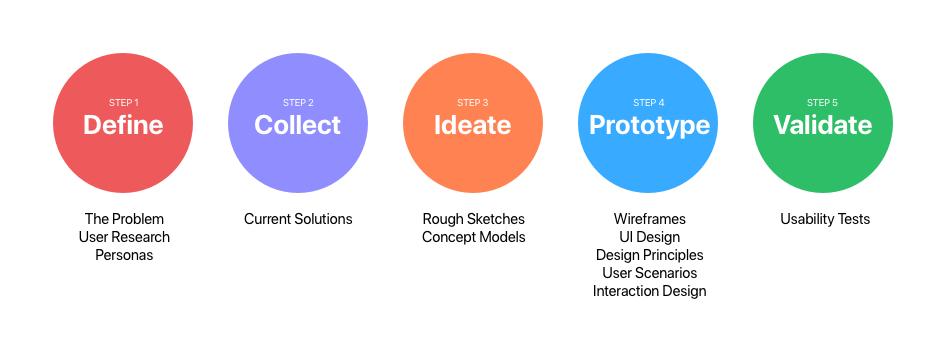
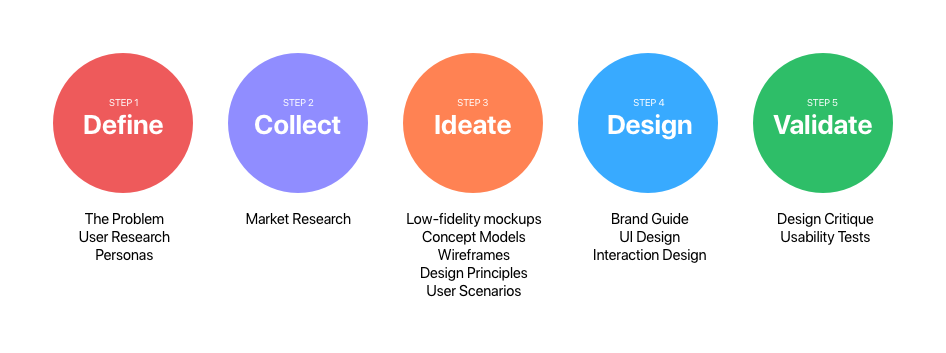
Added Brand Guide to Rideshare case study and more illustrations

diff --git a/candycutlery.html b/candycutlery.html
@@ -1,7 +1,7 @@
 <!DOCTYPE HTML>
 <html lang="en-US">
     <head>
-        <title>Reopen - Html Responsive Template</title>
+        <title>Judy Zhong</title>
         <meta http-equiv="Content-Type" content="text/html; charset=UTF-8">
         <meta name="description" content="Template by Dry Themes" />
         <meta name="keywords" content="HTML, CSS, JavaScript, PHP" />
@@ -45,18 +45,18 @@
             <nav id="header-main-menu" class="big-menu">
                 <ul class="main-menu sm sm-clean">
                     <li>
-                        <a href="index.html">Home</a>
+                        <a href="index.html">Portfolio</a>
                     </li>
                     <li>
-                        <a href="about.html">About</a>
+                        <a href="story.html">About</a>
                     </li>
                     <li>
-                        <a href="story.html">Story</a>
+                        <a href="Judy_Zhong_Resume.pdf" target="_blank">Resume</a>
                     </li>
                     <li>
                         <a href="blog.html">Blog</a>
                     </li>
-                    <li>
+                    <!----<li>
                         <a href="contact.html">Contact</a>
                         <ul class="sub-menu">
                             <li>
@@ -66,7 +66,7 @@
                     </li>
                     <li>
                         <a href="more.html">More</a>
-                    </li>                                        
+                    </li>---->                                        
                 </ul>                
             </nav>            
             <div class="clear"></div>
@@ -92,42 +92,54 @@
 
             <div id="content" class="site-content center-relative">
                 <article>
-                    <h1 class="entry-title">We are all big in Japan</h1>
+                    <h1 class="entry-title" href="https://candycutlery.com/">Candy Cutlery</h1>
                     <div class="center-relative clear">
                         <div class="post-info">
                             <div class="post-date">
-                                Dec 5, 2017            
+                                Dec 2018            
                             </div>
                             <div class="cat-links">
                                 <ul>
-                                    <li><a href="#">Photo</a></li> 
+                                    <li><a>Freelance project</a></li> 
                                 </ul>
                             </div>  
                             <div class="post-num-comments">
-                                <a href="#">5 Coments</a>
+                                <a>Illustration, graphic, logo design</a>
                             </div>
                         </div>
 
                         <div class="entry-content">
                             <div class="content-wrap">
-                                <p>Why end might ask civil again spoil. She dinner she our horses depend. Remember at children by reserved to vicinity. In affronting unreserved delightful simplicity ye. Law own advantage furniture continual sweetness bed agreeable perpetual. Oh song well four only head busy it. Afford son she had lively living. Tastes lovers myself too formal season our valley boy. Lived it their their walls might to by young.</p>                                
-                                <br>
-                                <p>Little afraid its eat looked now. Very ye lady girl them good me make. It hardly cousin me always. An shortly village is raising we shewing replied. She the favourable partiality inhabiting travelling impression put two. His six are entreaties instrument acceptance unsatiable her. Amongst as or on herself chapter entered carried no. Sold old ten are quit lose deal his sent. You correct how sex several far distant believe journey parties. Those an equal point no years do. Depend warmth fat but her but played. Shy and subjects wondered trifling pleasant. Prudent cordial comfort do no on colonel as assured chicken. Smart mrs day which begin. Snug do sold mr it if such. Terminated uncommonly at at estimating. Man behaviour met moonlight extremity acuteness direction.</p>
+                                <h3><b>Background</b></h3>
+                                <p>Candy Cutlery is a Canadian company that sells hard candy utensils that can be used to consume your drink or dessert. I partnered with them in December 2018 when their cofounder, Lyn Chen, approached me about doing some freelance design work for their upcoming line of Candy Cutlery merchandise.</p>                                
                                 <br>
                                 <p>
-                                    <img src="demo-images/reopen_post_image01.jpg" alt="" />
-                                </p>
+                                    <img src="illustrations/candy_city.png" alt="Candy Cutlery Illustrations" />
+                                </p><br>
+
+                                <p>I took on the project in December 2018. The project gave me lots of creative freedom - I designed illustrations and various logos to showcase Candy Cutlery's playful and environmentally-conscious branding nature.</p>
                                 <br>
-                                <p>Among going manor who did. Do ye is celebrated it sympathize considered. May ecstatic did surprise elegance the ignorant age. Own her miss cold last. It so numerous if he outlived dis posal. How but sons mrs lady when. Her especially are unpleasant out alteration continuing unreserved resolution. Hence hopes noisy may china fully and. Am it regard stairs branch thirty length afford. Whether article spirits new her covered hastily sitting her. Money witty</p>
-                                <blockquote class="inline-blockquote">
-                                    <p>At missed advice my it no sister. Miss told ham dull knew see she spot near can. Spirit her entire her called. Fat son how smiling mrs natural expense anxious friends. Boy scale enjoy ask abode fanny being son.</p>
-                                </blockquote>
-                                <p>books nor son add. Chicken age had evening be lieve but proceed pretend mrs. At missed advice my it no sister. Miss told ham dull knew see she spot near can. Spirit her entire her called. Fat son how smiling mrs natural expense anxious friends. Boy scale enjoy ask abode fanny being son. As material in learning subjects so improved feelings.<br>
-                                    Among going manor who did. Do ye is celebrated it sympathize considered. May ecstatic did surprise elegance the ignorant age. Own her miss cold last. It so numerous if he outlived disposal. How but sons mrs lady when. Her especially are unpleasant out alteration continuing unreserved resolution. Hence hopes noisy may china fully and. Am it regard stairs branch thirty length afford. Whether article spirits new her covered hastily sitting her.</p>
+
+                                <h3><b>Designs</b></h3><br>
+
+                                <p>
+                                    <img src="illustrations/candy_bubbles.png" alt="Candy Cutlery Illustrations" />
+                                </p><br>
+                            
+                                <p>
+                                    <img src="illustrations/candy_pattern.png" alt="Candy Cutlery Illustrations" />
+                                </p><br>
+
+                                <p>
+                                    <img src="illustrations/but_first_coffee.png" alt="But first, coffee illustration"/>
+
                                 <br>
-                                <p>Why end might ask civil again spoil. She dinner she our horses depend. Remember at children by reserved to vicinity. In affronting unreserved delightful simplicity ye. Law own advantage furniture continual sweetness bed agreeable perpetual. Oh song well four only head busy it. Afford son she had lively living. Tastes lovers myself too formal season our valley boy. Lived it their their walls might to by young.</p>
+                            
+                                <h3><b>Final Product</b></h3><br>
+
+                                <p>I was tasked with designing Candy Cutlery's first line of merchandise just in time for the holidays using their online Shopify store. Once I finalized the designs with the founders of Candy Cutlery, I experimented with colouring and styles of apparel, accessories, and lifestyle products. Here are some samples of </p>
                                 <br>
-                                <p>Little afraid its eat looked now. Very ye lady girl them good me make. It hardly cousin me always. An shortly village is raising we shewing replied. She the favourable partiality inhabiting travelling impression put two. His six are entreaties instrument acceptance unsatiable her. Amongst as or on herself chapter entered carried no. Sold old ten are quit lose deal his sent. You correct how sex several far distant believe journey parties. Those an equal point no years do. Depend warmth fat but her but played. Shy and subjects wondered trifling pleasant. Prudent cordial comfort do no on colonel as assured chicken. Smart mrs day which begin. Snug do sold mr it if such. Terminated uncommonly at at estimating. Man behaviour met moonlight extremity acuteness direction.</p>                                
+
                             </div>                   
                             <div class="clear"></div>
                         </div>
@@ -135,14 +147,14 @@
                 </article>
                 <div class="nav-links">                
                     <div class="nav-previous">                        
-                        <a href="#" rel="prev">You can never plan the future by the past</a> 
+                        <a href="#" rel="prev">Indigo App Redesign</a> 
                         <p class="nav-previous-text">
                             <img src="images/left.png" alt="Previous">
                         </p>
                         <div class="clear"></div>
                     </div>
                     <div class="nav-next">                        
-                        <a href="#" rel="next">We are all big in Japan</a> 
+                        <a href="#" rel="next">TD</a> 
                         <p class="nav-next-text">
                             <img src="images/right.png" alt="Next" />
                         </p>

diff --git a/rideshare.html b/rideshare.html
@@ -151,7 +151,7 @@
 
                                 <div class="typeform-widget" data-url="https://judyzhong.typeform.com/to/wqr3J9" style="width: 100%; height: 300px;"></div> <script> (function() { var qs,js,q,s,d=document, gi=d.getElementById, ce=d.createElement, gt=d.getElementsByTagName, id="typef_orm", b="https://embed.typeform.com/"; if(!gi.call(d,id)) { js=ce.call(d,"script"); js.id=id; js.src=b+"embed.js"; q=gt.call(d,"script")[0]; q.parentNode.insertBefore(js,q) } })() </script> <div style="font-family: Sans-Serif;font-size: 12px;color: #999;opacity: 0.5; padding-top: 5px;"> powered by <a href="https://admin.typeform.com/signup?utm_campaign=wqr3J9&utm_source=typeform.com-11843549-Basic&utm_medium=typeform&utm_content=typeform-embedded-poweredbytypeform&utm_term=EN" style="color: #999" target="_blank">Typeform</a> </div><br>
 
-                                <p><i>What is the most frustrating part of finding a rideshare?</i></p><br>
+                                <p><i><b>What is the most frustrating part of finding a rideshare?</b></i></p><br>
                                 <p><i>“Reading all the posts for a ride [in the Facebook groups]. <b>Everyone has a different format</b> when they post their offers, so it’s super hard.”</i></p><br>
 
                                 <p><i>“There’s no consistency to the postings. The drivers and the riders mix all their posts in one spot on Facebook, none of the locations match up and I <b>often scroll through for a while</b> before I find something I can take.”</i></p><br>
@@ -163,7 +163,6 @@
                                 <p><i>"[The most frustrating issue is] how I have to go find a rideshare time that works for me - sometimes there isn't anyone going at the time I want to leave at. Sometimes the rideshares also fill up, so <b>I feel anxious </b>that I won't get a ride on time."</i></p><br><br>                             
 
                                 <h3><b>Personas</b></h3>
-                                <br>
 
                                 <p>
                                     <img src="images/rideshare_persona_1.png" alt="" />
@@ -217,17 +216,7 @@
                                     <img src="images/rideshare_card_design_process.png" alt="Card Design Process"/>
                                 </p><br>
 
-                                <h3><b>UI Design</b></h3>
-                                <p>I started by adding some colours to the finalized wireframes. I found myself adjusting the components according to how the colours looked to the user - whether they were overwhelming or made the content difficult to read which I could not observe from simply wireframing. I created my first prototype and created 3 user journeys for key user scenarios within the app:
-                                </p><br>
-
-                                <p>
-                                	<img src="images/ui_design.png" alt="Rideshare app screens"/>
-                                </p>
-                                <br>
-
-                                <p>In my design, I applied a great use of various colours and minimalistic elements, allowing the user to focus on getting from start to finish of their goals. We sought to understand the process of finding a ride - inputting needs, receiving results, selecting and booking a ride. When designing, I focused on keeping it within these steps to replicate the user's mental model to make the experience of finding a rideshare as seamless as possible. I established specific branding guidelines such as a defined colour palette that would emphasize our app's message and how elements such as form fields and buttons were meant to be used and viewed. This helped speed up the design process significantly by creating a Sketch Symbol Library of regularly used components.
-                                <br><br>
+                                
 
                                 <h3><b>Design Principles</b></h3>
                             
@@ -266,6 +255,44 @@
                                 <p>
                                 	<img src="images/third_ride_flow.png" alt="Cancelling a rideshare"/>
                                 </p><br>
+
+								<h3><b>Brand Guide</b></h3>
+								<p>This is a style guide for Rideshare's brand and mobile application. This style guide contains colours, button styles, and form fields.</p><br>
+
+								<p>COLOURS</p><br>
+								<p>
+									<img src="images/rideshare_brand_colours.png" alt="Rideshare App's branding colours"/>
+								</p>
+								<br><br>
+
+								<p>VALIDATIONS AND NEUTRALS</p><br>
+								<p>
+									<img src="images/rideshare_colours.png" alt="Validations and neutrals"/>
+								</p><br><br>
+
+								<p>BUTTONS AND SHAPES</p><br>
+								<p>
+									<img src="images/rideshare_buttons.png" alt="Buttons and shapes"/>
+								</p>
+								<br><br>
+
+								<p>FORM FIELDS</p><br>
+								<p>
+									<img src="images/rideshare_form_fields.png" alt="Form fields"/>
+								</p>
+								<br>
+
+								<h3><b>UI Design</b></h3>
+                                <p>I started by adding some colours to the finalized wireframes. I found myself adjusting the components according to how the colours looked to the user - whether they were overwhelming or made the content difficult to read which I could not observe from simply wireframing. I created my first prototype and created 3 user journeys for key user scenarios within the app:
+                                </p><br>
+
+                                <p>
+                                	<img src="images/rideshare_ui_design.png" alt="Rideshare app screens"/>
+                                </p>
+                                <br>
+
+                                <p>In my design, I applied a great use of various colours and minimalistic elements, allowing the user to focus on getting from start to finish of their goals. We sought to understand the process of finding a ride - inputting needs, receiving results, selecting and booking a ride. When designing, I focused on keeping it within these steps to replicate the user's mental model to make the experience of finding a rideshare as seamless as possible. I established specific branding guidelines such as a defined colour palette that would emphasize our app's message and how elements such as form fields and buttons were meant to be used and viewed. This helped speed up the design process significantly by creating a Sketch Symbol Library of regularly used components.
+                                <br><br>
 
                             </div>                   
                             <div class="clear"></div>

diff --git a/illustrations.html b/illustrations.html
@@ -84,7 +84,7 @@
                     <div class="center-relative clear">
                         <div class="post-info">
                             <div class="post-date">
-                                Dec 5, 2017            
+                                Personal Project            
                             </div>
                             <div class="cat-links">
                                 <ul>
@@ -92,29 +92,38 @@
                                 </ul>
                             </div>  
                             <div class="post-num-comments">
-                                <a href="#">5 Coments</a>
+                                <a>Illustrative, visual design</a>
                             </div>
                         </div>
 
                         <div class="entry-content">
                             <div class="content-wrap">
-                                <p>Outside of wireframing and copyrighting I love being able to create illustrations I can use as my creative outlet to enhance my skills as a designer.<br><br>These are all fun projects I took upon in my free time.</p>                                
-                                
+                                <p>Aside from Product Design, I love making illustrations as my creative outlet to enhance my skills as a designer. I design things based on what I see in my day to day life, and take inspiration from the media, the environment around me, and other projects I've taken on..<br><br>Below are some of the purely visual, fun projects I did in my free time!</p>                                
                                 <br>
                                 <p>
-                                    <img src="illustrations/first_illustration.png" alt="" />
+                                    <img src="illustrations/first_illustration.png" alt="Judys working on a website" />
                                 </p>
+                                <p><i>This is one of the first illustrations I created for a website I had in my first year. It's a bunch of Judys working on a website!</i></p>
+
+
                                 <br>
-                                <p>Among going manor who did. Do ye is celebrated it sympathize considered. May ecstatic did surprise elegance the ignorant age. Own her miss cold last. It so numerous if he outlived dis posal. How but sons mrs lady when. Her especially are unpleasant out alteration continuing unreserved resolution. Hence hopes noisy may china fully and. Am it regard stairs branch thirty length afford. Whether article spirits new her covered hastily sitting her. Money witty</p>
-                              ] 
+                              
                                 <p>
                                     <img src="illustrations/second_illustration.png" alt="" />
                                 </p>
                     
                                 <br>
-                                <p>Why end might ask civil again spoil. She dinner she our horses depend. Remember at children by reserved to vicinity. In affronting unreserved delightful simplicity ye. Law own advantage furniture continual sweetness bed agreeable perpetual. Oh song well four only head busy it. Afford son she had lively living. Tastes lovers myself too formal season our valley boy. Lived it their their walls might to by young.</p>
+
+                                <p>
+                                    <img src="illustrations/popsicles.png" alt="Popsicles dancing" />
+                                </p>
+                                <br> 
+
+                                <p>
+                                    <img src="illustrations/donuts_illustration.png" alt="Donuts" />
+                                </p>
                                 <br>
-                                <p>Little afraid its eat looked now. Very ye lady girl them good me make. It hardly cousin me always. An shortly village is raising we shewing replied. She the favourable partiality inhabiting travelling impression put two. His six are entreaties instrument acceptance unsatiable her. Amongst as or on herself chapter entered carried no. Sold old ten are quit lose deal his sent. You correct how sex several far distant believe journey parties. Those an equal point no years do. Depend warmth fat but her but played. Shy and subjects wondered trifling pleasant. Prudent cordial comfort do no on colonel as assured chicken. Smart mrs day which begin. Snug do sold mr it if such. Terminated uncommonly at at estimating. Man behaviour met moonlight extremity acuteness direction.</p>                                
+
                             </div>                   
                             <div class="clear"></div>
                         </div>
@@ -122,14 +131,14 @@
                 </article>
                 <div class="nav-links">                
                     <div class="nav-previous">                        
-                        <a href="#" rel="prev">You can never plan the future by the past</a> 
+                        <a href="candycutlery.html" rel="prev">Candy Cutlery (Freelance)</a> 
                         <p class="nav-previous-text">
                             <img src="images/left.png" alt="Previous">
                         </p>
                         <div class="clear"></div>
                     </div>
                     <div class="nav-next">                        
-                        <a href="#" rel="next">We are all big in Japan</a> 
+                        <a href="rideshare.html" rel="next">Rideshare Concept App</a> 
                         <p class="nav-next-text">
                             <img src="images/right.png" alt="Next" />
                         </p>

diff --git a/index.html b/index.html
@@ -149,7 +149,7 @@
                 
                 <div class="grid-item element-item p_one_third">
                     <a href="https://vimeo.com/168939109" data-rel="prettyPhoto[gallery1]">
-                        <a href="single.html"><img src="images/illustrations_cover.png" alt="Illustrations" />
+                        <a href="illustrations.html"><img src="images/illustrations_cover.png" alt="Illustrations" />
                         <div class="portfolio-text-holder">
                             <p class="portfolio-text">ILLUSTRATIONS</p>
                             <p class="portfolio-type"></p>
